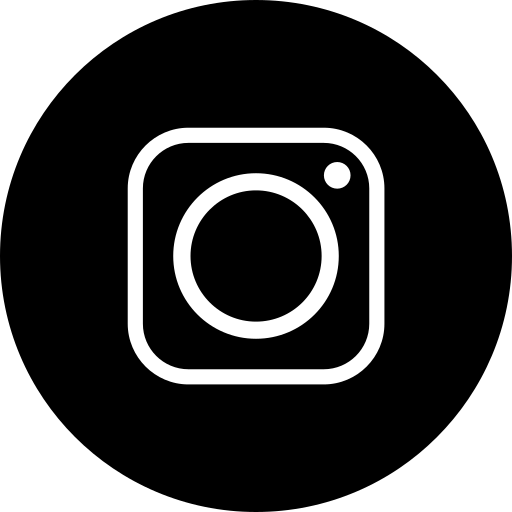
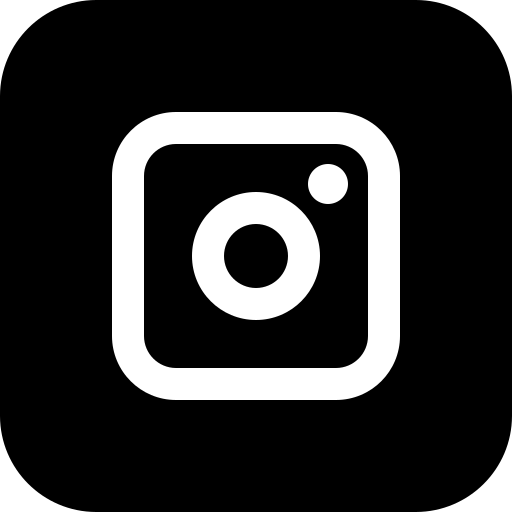
test ins

diff --git a/client/src/components/Footer.js b/client/src/components/Footer.js
@@ -8,7 +8,7 @@ import { Link } from 'react-router-dom';
 
 export default function Footer() {
   const logoStyle = { width: '250px', height: 'auto', marginRight: '10px' };
-  const iconsStyle = { width: '50px', height: 'auto', marginRight: '10px' };
+  const iconsStyle = { width: '50px', height: 'auto', marginRight: '10px', borderRadius: '50px' };
 
   return (
 
